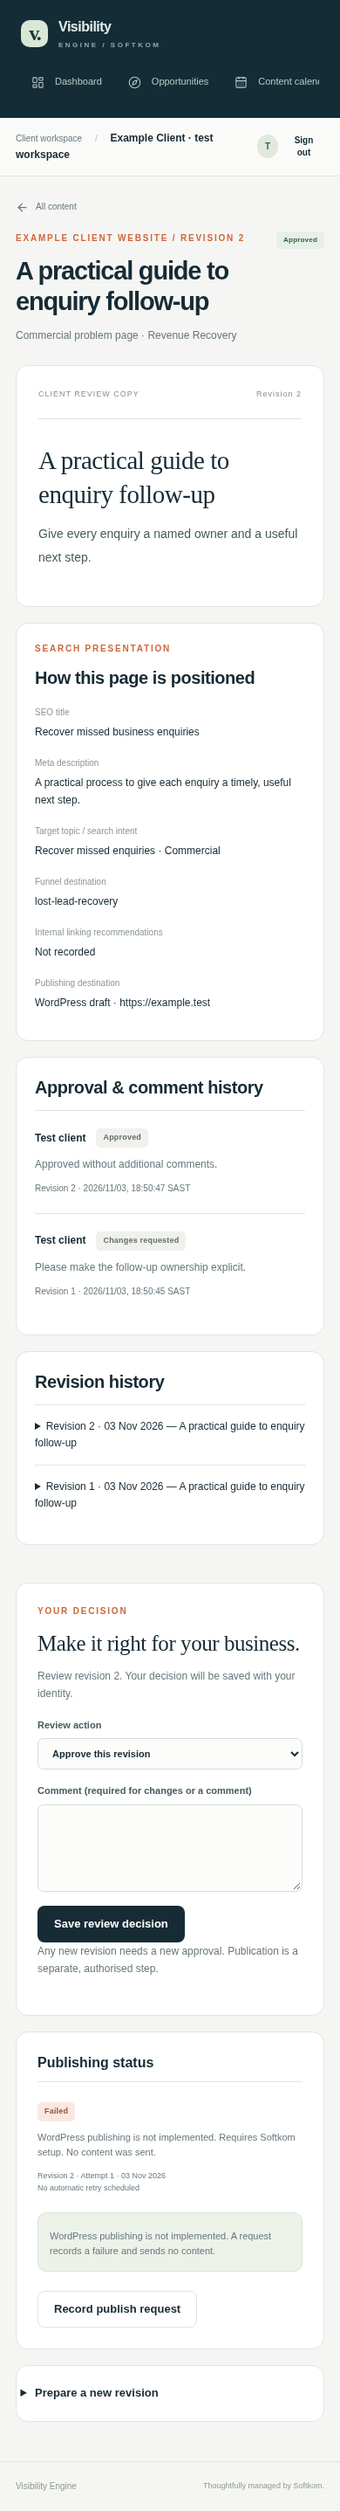
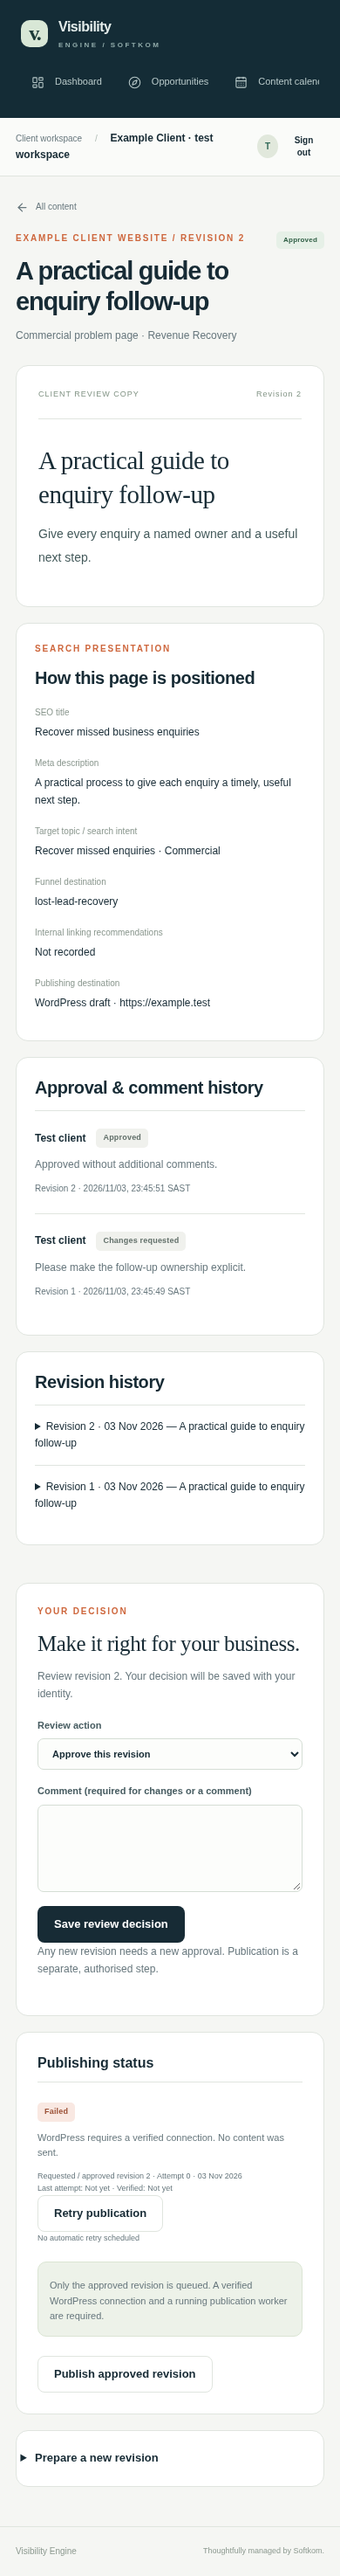
Record Phase 2 acceptance evidence, migrations and product screenshots

diff --git a/docs/visibility-engine-client-v1/IMPLEMENTATION.md b/docs/visibility-engine-client-v1/IMPLEMENTATION.md
@@ -1,149 +1,228 @@
-# Visibility Engine client V1 — review evidence
+# Visibility Engine Phase 2 — implementation and acceptance evidence
 
-This change replaces the external app's static dashboard with an authenticated,
-database-backed organisation workspace. It does not change Softkom's internal
-WordPress application or deploy anything.
+This phase implements the publish-and-measure value loop on
+`feature/visibility-engine-client-v1`. It preserves V1 authentication, tenant
+scope, revision approvals, attribution and migration history. PR #38 must remain
+a draft. Nothing is merged or deployed to production.
+
+## Prepared journey
+
+The browser acceptance test signs into a real test organisation, connects the
+**disposable real WordPress installation**, tests its Application Password,
+approves revision 1, requests publication and runs the worker. It then sees a
+verified LIVE URL, completes **controlled Google OAuth** with state/PKCE,
+selects a Search Console property, requests/executes a sync and sees persisted
+clicks, impressions, CTR and position against that published content and cluster.
+It also checks a foreign tenant filter, mobile layout and logout.
+
+The Google consent, token, property and measurement responses are deliberate
+fixtures, isolated in test code. They are not real Google-account evidence or
+production observations. Screenshot records are explicitly named test records.
 
 ## Changed-file summary
 
-| Area | Main paths | Result |
+| Area | Paths | Result |
 | --- | --- | --- |
-| Authentication and tenancy | `apps/visibility-engine-client/lib/auth.ts`, `lib/context.ts`, `app/api/auth`, `middleware.ts` | Better Auth sessions, membership checks, role permissions, origin protection, CSP and uncached tenant reads |
-| Domain services | `lib/workflow.ts`, `lib/security.ts`, `lib/queries.ts` | Validated opportunities, revision-specific reviews, audited publication requests, manual attribution and measured reporting |
-| Data and operator tooling | `prisma/schema.prisma`, `prisma/migrations`, `scripts` | Additive models, same-site foreign keys, preservation migrations, transactional deployment and secure account provisioning |
-| Product experience | `app/workspace`, `app/login`, `app/onboarding`, `components`, `app/styles.css` | Responsive shell, four-step onboarding, dashboard, opportunities, calendar, content review/history, strategy, search/AI views, leads, reports, settings and truthful connection states |
-| Provider boundaries | `lib/publishing`, `lib/analytics`, `lib/connections` | Typed provider interfaces and server-side authenticated encryption; no implied live integration |
-| Reproducibility and checks | `package-lock.json`, TypeScript/ESLint/Prisma/Vitest/Playwright configuration, `tests`, `.github/workflows/visibility-engine-client.yml` | Pinned dependencies, executable test suites and scoped CI |
+| WordPress and destination safety | `lib/connections/http.ts`, `service.ts`, `lib/publishing/wordpress.ts` | Public HTTPS and DNS/IP pinning, per-hop checks, encrypted Application Passwords, permission verification, safe errors, connect/test/reconnect/disconnect |
+| Publishing | `lib/workflow.ts`, `lib/publishing/worker.ts` | Exact requested snapshot, revision approval, deterministic remote identity, atomic fenced claim, bounded retry, stored remote ID and public verification |
+| Google and ingestion | `lib/analytics/google.ts`, `service.ts`, `sync.ts`, OAuth callback route | Single-use tenant/user/site state, PKCE, encrypted offline tokens, refresh, accessible property selection, scheduled/manual sync and property-scoped persisted measurements |
+| Scope and review | `lib/scope.ts`, `lib/context.ts`, `lib/workflow.ts` | Framework-independent scoped database helpers for workers; optional assigned-reviewer rules without a manager approval bypass |
+| Client experience | `components/connections.tsx`, `search-insights.tsx`, `views.tsx`, content detail and actions | Safe credential forms, health/freshness/retry states, overall/page/query/branded/cluster/content measurements and linked stored leads |
+| Database | `prisma/schema.prisma`, migrations 004 and 005 | Additive locks, OAuth state, sync jobs, revision routing snapshots and property scope |
+| Operations and checks | `scripts/worker.ts`, test-service/browser scripts, tests, CI, README | Bounded scheduler command, disposable WordPress, isolated Google fixtures, HTTPS browser tests and reproducible instructions |
 
-All changes are confined to the external client app, its CI workflow and this
-evidence directory. Tracked WordPress application files are unchanged. Actual
-environment files, credentials, dependencies, build outputs and browser traces
-are ignored. SQL migration files have an explicit ignore-rule exception so they
-are committed even though repository-wide database dumps are excluded.
+Tracked WordPress application files are unchanged. Runtime credentials, local
+TLS private keys, `.env`, dependencies, build outputs and browser traces are
+ignored. No production credentials are committed or printed.
 
-## Database changes
+## WordPress integration
 
-1. `202611030001_baseline`: the original scaffold schema, for fresh databases.
-2. `202611030002_client_workflow`: adds auth sessions/accounts/verifications/rate
-   limits; organisation business profiles; research reasoning and evidence;
-   content revisions, comments and reviewer relations; audit records; connection
-   states and encrypted credential slots; publication attempts, overrides and
-   retry metadata; AI observations; lead stage, origin, content and currency.
-   Composite keys enforce matching site IDs for related topics, content,
-   publications and attribution.
-3. `202611030003_legacy_revision_snapshots`: snapshots existing content without
-   altering its copy and establishes truthful unavailable connection records for
-   existing sites.
+Connections use the standard WordPress REST API and Application Passwords. A
+public canonical HTTPS installation URL is normalised; embedded credentials,
+non-HTTPS schemes, loopback/local/private/link-local/metadata ranges, non-public
+DNS results and unsafe redirects are rejected. All resolved addresses are
+checked and the selected address is pinned to the TLS socket; Host and SNI come
+from the validated URL. Cross-origin auth forwarding and redirected writes are
+blocked. DNS, response size, request time and total provider operation are bounded.
 
-Existing models, content and subscription data are retained. Existing deployments
-without a ledger must verify and baseline the original schema before applying
-the additive migrations. Inconsistent historic cross-site references require
-explicit correction rather than destructive automatic repair.
+Verification checks the REST namespace, authenticated user and create/publish/edit
+page capabilities. Only an authenticated AES-256-GCM envelope is stored. The
+workspace selects safe metadata explicitly and never returns credentials. Safe
+errors and audit events contain codes and approved constant messages, not raw
+provider payloads.
 
-The runtime uses Prisma's JavaScript query engine and PostgreSQL driver adapter.
-SQL was generated with Prisma's WASM schema engine. Because Prisma 6's
-experimental WASM deployment adapter cannot decode PostgreSQL's catalog `name`
-type, `npm run db:migrate` uses a PostgreSQL SQL runner with advisory locking,
-per-migration transactions, SHA-256 verification and the standard Prisma ledger.
-Native Prisma migration tooling remains compatible. The runner rejects changed,
-missing and unfinished migrations and refuses an unbaselined existing schema.
+A publication reads `ContentRevision` matching `requestedRevision`. Title, body,
+SEO fields, slug and funnel are validated from that snapshot. New editable copy
+cannot replace it. The visible HTML remains the approved HTML; only a hidden
+identity marker is appended. The slug retains the approved prefix with a stable
+publication identity suffix. WordPress title and excerpt are supported; arbitrary
+SEO-plugin meta fields are **not** claimed as configured.
+
+The publication ID determines remote reconciliation identity. Before creating a
+page the provider looks for that identity; retries update the saved remote ID or
+recover a page whose create response was lost. The remote ID and URL are saved
+before verification. Verification checks the REST resource's ID, published state,
+identity and approved raw body, then GETs the public page and checks its marker.
+Unverified public pages remain FAILED with a distinct verification error and
+retain the remote resource for a safe retry. Only verified records are LIVE.
+
+WordPress core does not offer a transactionally atomic external idempotency-key
+API. The tested concurrency/retry/lost-response paths are protected by fenced
+local claims, hard time limits, deterministic slug lookup and retained remote
+IDs. Arbitrary remote plugin behaviour or extreme delayed remote execution is
+not represented as an exactly-once distributed transaction guarantee.
+
+## Worker design
+
+`npm run worker` is a one-shot supervised/scheduled command: enqueue daily GSC
+work, process a bounded batch of publications and syncs, then exit. It is safe to
+invoke concurrently. A scheduler must run it, normally once per minute; this
+change does not deploy a production scheduler.
+
+Publication and search workers atomically compare-and-set job state, assign a
+random fencing token, increment attempts and commit the claim before HTTP. Result
+writes require the same token. Ten-minute leases outlast the provider deadlines;
+stale claims can be recovered, and an expired final attempt becomes a visible
+FAILED/dead-letter record. There are five attempts with exponential backoff capped
+at one hour. Job state, failure, last attempt, next retry and successful verification
+or sync timestamps are persisted. Duplicate publication requests use a unique
+content/revision job key; each connection has one reusable sync job.
+
+No database transaction remains open during external HTTP. Search completion locks
+the connection row to serialize writes with property changes/disconnection; an
+old in-flight sync cannot restore a removed connection or publish stale metrics
+under a new property generation. Database scope helpers no longer import Next.js
+request/session APIs, so worker commands run in ordinary Node processes.
+
+## Google Search Console design
+
+OAuth requests only `webmasters.readonly`, offline access and explicit consent.
+State is random, stored hashed, single-use and expires after ten minutes. It is
+bound to the authenticated user, organisation, site and connection generation.
+The PKCE verifier is encrypted. The callback consumes state atomically and stores
+access/refresh tokens only in encrypted envelopes. Refresh uses expiry headroom,
+checks connection generation and audits safe state changes. Disconnect removes
+local credentials first and attempts Google revocation; revocation failure is
+recorded without restoring access.
+
+The operator must configure a Google Cloud project, Search Console API, consent
+screen, client ID/secret and the exact matching HTTPS callback/auth origin.
+`.env.example` documents the names; no real Google credentials are present.
+Production's HTTPS callback guard remains intact.
+
+Properties are listed during OAuth and rechecked during selection and sync.
+URL-prefix and domain properties are supported without assuming their identifier
+equals the WordPress URL. Only a property accessible to that connection's Google
+account can be selected. All operations remain site/organisation scoped.
+
+Sync requests finalised web-search data by date, query and page, paginates within
+a bounded row limit and rejects partial/invalid responses. The rolling 28-day
+window ends three UTC calendar days ago. Upserts use a deterministic hash of
+site, property, date, query, page and source. The selected property/range is
+replaced atomically, including observations withdrawn by Google. Manual data and
+other properties are retained separately. Dashboard reads filter to the selected
+property, use persisted rows and make no live provider calls.
+
+The UI shows returned coverage, latest data date, requested/successful ranges,
+last sync, next retry/scheduled cadence and failure state. It explains reporting
+delay, finalised data and withheld anonymised/low-volume queries. CTR is clicks
+/ impressions; position is impression-weighted. Trends show comparison limitations.
+Branded classification is editable NFKC, case-insensitive whole-phrase matching;
+no configured terms means unclassified. URL/content/topic/cluster and lead links
+use stored deterministic relationships. Revenue causation is never inferred.
+
+## Reviewer permissions
+
+Assignments are optional and must name an OWNER, ADMIN or CLIENT member of the
+same organisation. When assigned, only that member can approve/request changes;
+all organisation members may comment. With no assignment, OWNER, ADMIN and CLIENT
+may approve/request changes. SOFTKOM_MANAGER cannot approve as the client. The
+existing explicit audited manager exception remains, with its minimum reason
+length. New revisions require new approvals and old snapshots remain intact.
+
+## Additive migrations
+
+- `202611030004_publish_search_loop`: connection health/account/property/token
+  metadata and generation, OAuth state, sync jobs, publication claim/verification
+  metadata and deduplication key, measurement grain keys, organisation brand
+  terms and snapshot slug/funnel. Existing snapshots receive routing fields;
+  every historical publication is retained, with the newest legacy job per
+  content/revision chosen as its deduplication boundary.
+- `202611030005_search_property_scope`: nullable property identifier and an
+  index on existing SearchMetric rows. Unknown historic property identifiers
+  are not invented. Other-provider/manual rows and old property observations
+  are preserved.
+
+The standard migration runner still uses advisory locking, per-migration
+transactions, immutable SHA-256 checksums and the Prisma ledger. Tests apply
+both new migrations to preserved V1 data, deliberately fail and roll back each,
+verify original content and schema remain, then apply successfully. Existing
+repeat-application, changed-checksum and partial-SQL rollback tests also run.
+No destructive migration, reset or `db push --accept-data-loss` is used.
 
 ## Executed validation
 
-Validated on Node 24, PostgreSQL 17 and installed Chromium 154, using a local
-production Next.js server. These are current-instance results; remote CI has not
-been claimed as executed.
+Validation uses Node 24, PostgreSQL 17, PHP 8.2, WordPress 7.1.4, MariaDB 11.4 and
+Chromium against a local production Next.js build. Final results are recorded
+below; remote CI execution is not claimed.
 
 | Check | Result |
 | --- | --- |
-| `npm run db:validate` | Passed |
-| `npm run db:migrate`, repeated | Passed; checksums verified without reapplying |
-| `npm run typecheck` | Passed |
-| `npm run lint` | Passed |
-| `npm run build` | Passed; all workspace routes rendered dynamically |
-| `npm test` | 18 passed across three files; none skipped |
-| `PLAYWRIGHT_CHROMIUM_EXECUTABLE=/usr/bin/chromium npm run test:browser` | 9 passed; none skipped; no Playwright retries |
-| `npm audit --omit=dev` | Zero vulnerabilities |
-| `git diff --check` | Passed |
+| Prisma generate / validate / migration repeat | Passed; both additive migrations applied and checksums reverified |
+| Typecheck | Passed |
+| ESLint | Passed, no warnings |
+| Unit / database / real WordPress tests | 36 passed across six files; none skipped |
+| Production build | Passed |
+| Browser acceptance | 10 passed; none skipped, no Playwright retries |
+| One-shot worker command | Passed; empty queue exits cleanly |
+| Production dependency audit | Zero vulnerabilities |
+| Whitespace / tracked WordPress scope | Passed |
 
-Unit/database checks include encrypted-credential tamper detection, content
-sanitisation, safe return paths and website URLs, weighted search calculations,
-unavailable providers, approval versioning, permissions and audit writes.
-Migration tests run against a separate temporary database and demonstrate that
-original content survives, snapshots are retained, repeat application is safe,
-checksum changes are rejected and failing SQL rolls back without a partial table
-or success ledger entry.
+Tests cover SSRF range/DNS/redirect checks and pinned lookup, encryption/tamper,
+error sanitisation, revision selection, duplicate requests, competing workers,
+lost responses, verification retry, attempt limits, property partitions,
+refresh, OAuth state reuse/tenant mismatch, metric upserts, reviewer permissions,
+tenant reads/mutations and migration preservation/rollback.
 
-Browser tests exercise real login/logout and database sessions, disabled public
-signup, rejected cross-origin sign-in, all onboarding steps, researched
-opportunity/content creation, change requests, revisions, approvals and history,
-truthful unavailable publishing, the content calendar, all reporting views and
-mobile layouts. Save feedback settles before a document refresh; tests assert
-the persisted visible result rather than relying on transient toast timing.
+The real WordPress tests authenticate generated Application Passwords, reject
+wrong credentials and insufficient rights, create/verify a real page and confirm
+same-ID retries. Test sockets route explicitly to the disposable loopback
+WordPress server; this is real WordPress REST/HTML evidence, not real Internet
+DNS/TLS evidence. Test-created pages are deleted where practical.
 
-## Tenant-isolation and security evidence
-
-- Two independent organisations are used in PostgreSQL tests. Foreign site IDs,
-  content IDs, list filters, topics and reviewer assignments are rejected.
-- Cross-tenant reads, reviews, revisions, status changes, publication requests
-  and attribution links cannot expose or mutate the other organisation's data.
-- A database-level test attempts a cross-site content/topic relation and confirms
-  the foreign key rejects it.
-- Browser tests attempt foreign record URLs, a foreign site filter and a forged
-  organisation selector cookie. No private client content is shown.
-- The browser intercepts and changes the **actual transmitted server-action
-  payload** to point at another organisation's content. The server rejects it;
-  the foreign record retains its original DRAFT status.
-- CLIENT can review but cannot manage sites, opportunities, revisions,
-  publication requests or revenue records. SOFTKOM_MANAGER remains scoped by
-  membership and cannot silently approve as the client.
-- Approval is bound to a content revision. New revisions invalidate earlier
-  approval for publication; a manager exception requires an explicit audited reason.
-- Browser assertions confirm HttpOnly, Secure, SameSite=Lax production session
-  cookies. Sign-out revokes the session and protected routes require login again.
-- Origin checks, server-side validation, HTML allowlisting, CSP nonces, no-store
-  responses and server-only credential selection protect mutation and display paths.
-- External credential envelopes use AES-256-GCM with random nonces; credentials
-  are not collected until a real connector exists and are never passed to the UI.
+Browser Google requests are routed by a **test-only preloader**, never imported
+by production application code. Controlled consent verifies PKCE, and token/
+property/measurement fixtures exercise the actual callback and persistence code.
+The browser app uses a separate HTTPS fixture with a freshly generated local
+certificate. Node trusts that certificate and Chromium pins its exact SPKI;
+production callback and destination protections are unchanged. Login tests
+respect the production rate limiter instead of turning it off.
 
 ## Screenshots
 
-Screenshots use synthetic test records in a temporary test organisation. The
-figures are actual fixture counts, not production claims or demo seeds. Screens
-were captured after loading completed.
+These screens contain explicit controlled test organisations and measurements;
+they are not production dashboards or claims of Google-account validation.
 
-![Desktop dashboard](dashboard-desktop.png)
+![Search dashboard with controlled provider data](phase2-search-desktop.png)
 
-![Mobile dashboard](dashboard-mobile.png)
+![Mobile search dashboard](phase2-search-mobile.png)
 
-![Mobile content review, approval history and publishing status](content-review-mobile.png)
+![Mobile connection health and sync status](phase2-connections-mobile.png)
 
-## Intentionally incomplete integrations and operational boundaries
+## Remaining limitations and intentionally deferred work
 
-- **WordPress publishing:** provider interface only. No connector, production
-  credentials, successful provider responses, live publication or verification is
-  fabricated. Requests record FAILED with a reason and send no content.
-- **Publishing worker/scheduler and automatic retries:** not running. Planned
-  dates and retry metadata are stored; they do not promise an active scheduler.
-  A real worker must claim requests atomically, publish the approved revision
-  snapshot and use the publication ID for idempotency.
-- **Google Search Console and GA4:** OAuth and automatic ingestion are not
-  implemented. Connections remain unavailable; search views use stored
-  observations only and explain missing measurements.
-- **AI monitoring:** no registered live provider. The observation model and views
-  record platform, prompt, mention/citation, source, confidence and time. There
-  is no proprietary or invented AI visibility score.
-- **CRM and imports:** no live connector or import UI. Managers can record manual
-  attribution; the data origin is displayed. Revenue is recorded separately by
-  currency and never substituted with estimated MRR.
-- **Credential setup:** encrypted storage primitive is ready; credential-entry,
-  OAuth token refresh and key rotation jobs are not implemented.
-- **Account administration:** operator provisioning/password reset is supported;
-  public signup, automated invitations and recovery email are not enabled.
-- Billing, backlinks, additional CMS connectors and cross-client administration
-  are not implemented in this V1.
-
-The app must run behind a trusted HTTPS proxy with controlled forwarding headers
-for reliable IP-based rate limiting. Future providers must add destination/SSRF
-checks before fetching client-supplied website URLs. No merge, production
-deployment or live WordPress modification is included.
+- Real Google consent, access/refresh/revocation and quota behaviour require a
+  configured staging Google project and real account/property. They have not
+  been validated against Google. Production egress and a supervised worker also
+  require staging/operator verification before rollout.
+- WordPress SEO-plugin-specific meta fields, remote plugin compatibility and
+  distributed exactly-once guarantees beyond the tested reconciliation paths
+  are not claimed. Core title/excerpt and approved body publication are verified.
+- GA4 is explicitly unavailable. AI monitoring, CRM imports, inline comment
+  anchors/resolution, billing/Stripe, backlinks, extra CMSs, public signup,
+  cross-client admin and white-label billing are intentionally deferred.
+- GitHub REST/GraphQL access is denied in this environment. The user supplied
+  the acceptance review and issue #39 requirements. Git branch commits/pushes
+  can update PR #38's code, but the PR description/comment cannot be updated
+  through the denied API. Prepared review text is in `PHASE2_PR_UPDATE.md`.
+- No merge, production deployment or live Softkom WordPress modification occurred.

diff --git a/docs/visibility-engine-client-v1/PHASE2_PR_UPDATE.md b/docs/visibility-engine-client-v1/PHASE2_PR_UPDATE.md
@@ -1,0 +1,37 @@
+The client workspace now publishes an approved revision to WordPress, verifies
+its live URL, connects Google Search Console and displays persisted search
+measurements against that content. Existing tenant boundaries, approval history
+and lead/revenue rules are preserved. Keep this PR in draft; no production merge
+or deployment is included.
+
+- Standard WordPress Application Passwords, encrypted credentials, connection
+  health, permissions checks and reconnect/disconnect actions.
+- Public HTTPS destination checks, DNS/IP pinning, safe redirects, bounded
+  requests and secret-free errors/audits.
+- Atomic fenced publication jobs, exact requested snapshots, deterministic remote
+  reconciliation, retained WordPress IDs, verification, backoff and attempt limits.
+- Google OAuth with state/PKCE and encrypted refresh tokens, accessible property
+  selection, manual/daily sync jobs and property-isolated measurement upserts.
+- Data freshness/coverage, page/query trends, editable branded terms and mapped
+  content/cluster/lead reporting using persisted observations.
+- Optional reviewer assignments now restrict approval to the named authorised
+  organisation reviewer; managers retain only the explicit audited exception.
+- Additive migrations 004 and 005 preserve existing V1 data and have individual
+  transaction rollback and successful reapplication evidence.
+
+Validation: 36 unit/database/real-WordPress tests and 10 browser tests, none
+skipped; schema/migration checks, typecheck, lint, production build and dependency
+audit pass. Real disposable WordPress evidence includes valid/wrong/insufficient
+Application Passwords, publication, public verification and same-ID retry.
+Google evidence is explicitly controlled OAuth/API fixture validation, not a
+real Google-account test. Screenshots and detailed design/validation are in
+`docs/visibility-engine-client-v1/IMPLEMENTATION.md`.
+
+Real Google consent/refresh/revocation and production egress/supervised scheduling
+still need staging validation with a configured Google project/account. Generic
+SEO-plugin meta fields and arbitrary WordPress plugin compatibility are not
+claimed as configured. GA4, AI monitoring, CRM imports, comment anchors, billing,
+backlinks, additional CMSs and cross-client administration remain deferred.
+
+This text is prepared for PR #38 because GitHub REST/GraphQL API access is denied
+in the current environment. Branch commits and push are handled through Git.
